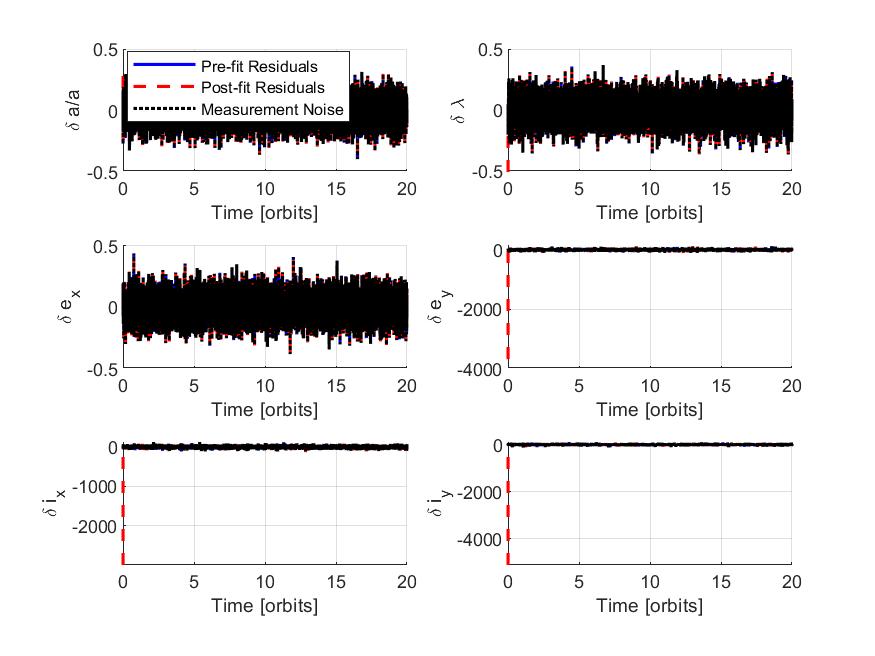
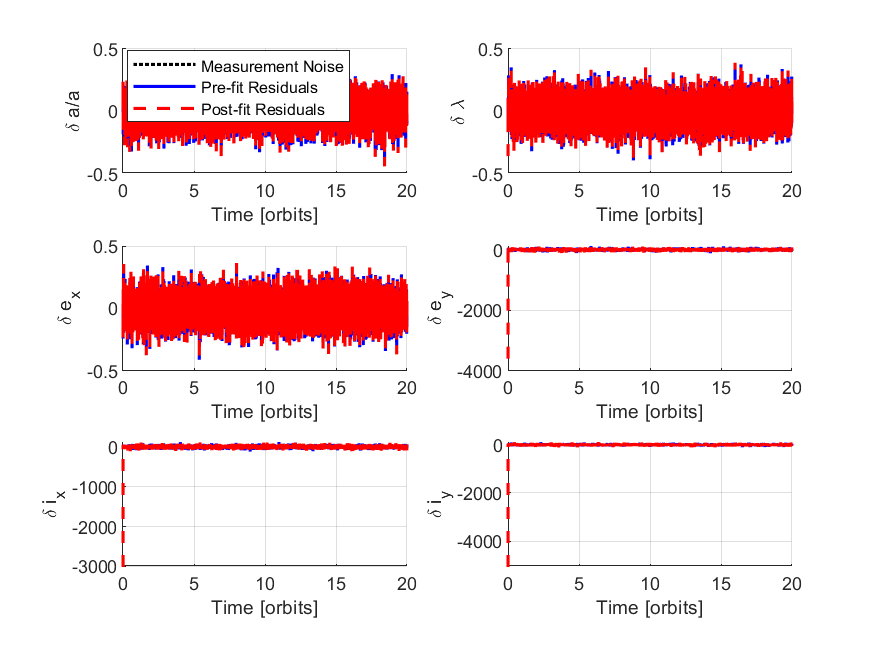
fixes

diff --git a/sim/EKF_continuous_no_control.m b/sim/EKF_continuous_no_control.m
@@ -1,5 +1,7 @@
-function EKF_continuous_no_control(SV1_OE_init, SV2_state_init, SV3_state_init, ...
-                                     SV1_state_init, t_orbit, t_series)
+function EKF_continuous_no_control(SV1_OE_init, SV2_ROE_init, SV3_ROE_init, SV2_state_init, SV3_state_init, ...
+                                     SV1_state_init,t_orbit, t_series)
+    % Inputs: mean OE, mean ROEs, times
+
     full_times = t_series(:);
     dt = full_times(2) - full_times(1);
     n_steps = length(full_times);
@@ -28,40 +30,94 @@ function EKF_continuous_no_control(SV1_OE_init, SV2_state_init, SV3_state_init, 
     noise_SV3_all = zeros(length(t_series), 6);
 
     % Setting initial states
-    SV1_state = SV1_state_init;
-    SV2_state = SV2_state_init;
-    SV3_state = SV3_state_init;
+    % SV1_state = SV1_state_init;
+    % SV2_state = SV2_state_init;
+    % SV3_state = SV3_state_init;
+
+
+    % Use ROEs to get initial OEs for SV2 and SV3
+    % Then use these OEs to get ECI positions
+
+    a_1_init = SV1_OE_init(1);
+    e_1_init = SV1_OE_init(2);
+    i_1_init = SV1_OE_init(3);
+    RAAN_1_init = SV1_OE_init(4);
+    w_1_init = SV1_OE_init(5);
+    M_1_init = SV1_OE_init(6);
+    nu_1_init = rad2deg(mean2true(deg2rad(M_1_init),e_1_init));
+
+
+    d_a_SV2_init = SV2_ROE_init(1);
+    d_lambda_SV2_init = SV2_ROE_init(2);
+    d_e_x_SV2_init = SV2_ROE_init(3);
+    d_e_y_SV2_init = SV2_ROE_init(4);
+    d_i_x_SV2_init = SV2_ROE_init(5);
+    d_i_y_SV2_init = SV2_ROE_init(6);
+
+    d_a_SV3_init = SV3_ROE_init(1);
+    d_lambda_SV3_init = SV3_ROE_init(2);
+    d_e_x_SV3_init = SV3_ROE_init(3);
+    d_e_y_SV3_init = SV3_ROE_init(4);
+    d_i_x_SV3_init = SV3_ROE_init(5);
+    d_i_y_SV3_init = SV3_ROE_init(6);
+
+    [a_2_init, e_2_init, i_2_init, RAAN_2_init, w_2_init, nu_2_init] = ROE2OE(a_1_init,e_1_init,i_1_init,RAAN_1_init,w_1_init,nu_1_init, ...
+    d_a_SV2_init,d_lambda_SV2_init,d_e_x_SV2_init,d_e_y_SV2_init,d_i_x_SV2_init,d_i_y_SV2_init);
+    [a_3_init, e_3_init, i_3_init, RAAN_3_init, w_3_init, nu_3_init] = ROE2OE(a_1_init,e_1_init,i_1_init,RAAN_1_init,w_1_init,nu_1_init, ...
+    d_a_SV3_init,d_lambda_SV3_init,d_e_x_SV3_init,d_e_y_SV3_init,d_i_x_SV3_init,d_i_y_SV3_init);
+
+    [r_ECI_SV1_init,v_ECI_SV1_init] = OE2ECI(a_1_init,e_1_init,i_1_init,RAAN_1_init,w_1_init,nu_1_init);
+    [r_ECI_SV2_init,v_ECI_SV2_init] = OE2ECI(a_2_init,e_2_init,i_2_init,RAAN_2_init,w_2_init,nu_2_init);
+    [r_ECI_SV3_init,v_ECI_SV3_init] = OE2ECI(a_3_init,e_3_init,i_3_init,RAAN_3_init,w_3_init,nu_3_init);
+
+    [a_qns_SV1, e_x_SV1, e_y_SV1, i_qns_SV1, RAAN_qns_SV1, u_SV1] = ...
+    OE2quasi_nonsing(a_1_init,e_1_init,i_1_init,RAAN_1_init,w_1_init,M_1_init);
+    SV1_OE_state = [a_qns_SV1, e_x_SV1, e_y_SV1, i_qns_SV1, RAAN_qns_SV1, u_SV1];
+
+    M_2_init = rad2deg(true2mean(deg2rad(nu_2_init),e_2_init));
+    [a_qns_SV2, e_x_SV2, e_y_SV2, i_qns_SV2, RAAN_qns_SV2, u_SV2] = ...
+    OE2quasi_nonsing(a_2_init,e_2_init,i_2_init,RAAN_2_init,w_2_init,M_2_init);
+    SV2_OE_state = [a_qns_SV2, e_x_SV2, e_y_SV2, i_qns_SV2, RAAN_qns_SV2, u_SV2]; % qns
+
+    M_3_init = rad2deg(true2mean(deg2rad(nu_3_init),e_3_init));
+    [a_qns_SV3, e_x_SV3, e_y_SV3, i_qns_SV3, RAAN_qns_SV3, u_SV3] = ...
+    OE2quasi_nonsing(a_3_init,e_3_init,i_3_init,RAAN_3_init,w_3_init,M_3_init);
+    SV3_OE_state = [a_qns_SV3, e_x_SV3, e_y_SV3, i_qns_SV3, RAAN_qns_SV3, u_SV3]; % qns
+    
+    SV1_state = [r_ECI_SV1_init', v_ECI_SV1_init']';
+    SV2_state = [r_ECI_SV2_init', v_ECI_SV2_init']';
+    SV3_state = [r_ECI_SV3_init', v_ECI_SV3_init']';
 
     state_SV3_all(1, :) = SV3_state';
     state_SV2_all(1, :) = SV2_state';
     state_SV1_all(1, :) = SV1_state';
     
     % Initial states for EKF
-    [a_init_SV1,e_init_SV1,i_init_SV1,RAAN_init_SV1,omega_init_SV1,nu_init_SV1] = ECI2OE(SV1_state_init(1:3), SV1_state_init(4:6));
-    M_init_SV1_rad = true2mean(deg2rad(nu_init_SV1),e_init_SV1);
-    M_init_SV1 = rad2deg(M_init_SV1_rad);
-    [a_qns_SV1, e_x_SV1, e_y_SV1, i_qns_SV1, RAAN_qns_SV1, u_SV1] = ...
-    OE2quasi_nonsing(a_init_SV1,e_init_SV1,i_init_SV1,RAAN_init_SV1,omega_init_SV1,M_init_SV1);
-    SV1_OE_state = [a_qns_SV1, e_x_SV1, e_y_SV1, i_qns_SV1, RAAN_qns_SV1, u_SV1];
-
-    [a_init_SV3,e_init_SV3,i_init_SV3,RAAN_init_SV3,omega_init_SV3,nu_init_SV3] = ECI2OE(SV3_state_init(1:3), SV3_state_init(4:6));
-    M_init_SV3_rad = true2mean(deg2rad(nu_init_SV3),e_init_SV3);
-    M_init_SV3 = rad2deg(M_init_SV3_rad);
-    [a_qns_SV3, e_x_SV3, e_y_SV3, i_qns_SV3, RAAN_qns_SV3, u_SV3] = ...
-    OE2quasi_nonsing(a_init_SV3,e_init_SV3,i_init_SV3,RAAN_init_SV3,omega_init_SV3,M_init_SV3);
-    SV3_OE_state = [a_qns_SV3, e_x_SV3, e_y_SV3, i_qns_SV3, RAAN_qns_SV3, u_SV3];
-    
-    [d_a_init_SV2, d_lambda_init_SV2, d_e_x_init_SV2, d_e_y_init_SV2, d_i_x_init_SV2, d_i_y_init_SV2] = ...
-        ECI2ROE_array(SV1_state_init(1:3)', SV1_state_init(4:6)', SV3_state_init(1:3)', SV3_state_init(4:6)');
-    SV2_ROE_state = [d_a_init_SV2, d_lambda_init_SV2, d_e_x_init_SV2, d_e_y_init_SV2, d_i_x_init_SV2, d_i_y_init_SV2]/a_chief; % unscaling by a_chief
-    
-    [a_qns_SV2, e_x_SV2, e_y_SV2, i_qns_SV2, RAAN_qns_SV2, u_SV2] = ...
-        ROE2quasi_nonsing(a_qns_SV1, e_x_SV1, e_y_SV1, i_qns_SV1, RAAN_qns_SV1, u_SV1,d_a_init_SV2, d_lambda_init_SV2, d_e_x_init_SV2, d_e_y_init_SV2, d_i_x_init_SV2, d_i_y_init_SV2);
-    SV2_OE_state = [a_qns_SV2, e_x_SV2, e_y_SV2, i_qns_SV2, RAAN_qns_SV2, u_SV2];
-
-    [d_a_init_SV3, d_lambda_init_SV3, d_e_x_init_SV3, d_e_y_init_SV3, d_i_x_init_SV3, d_i_y_init_SV3] = ...
-        ECI2ROE_array(SV1_state_init(1:3)', SV1_state_init(4:6)', SV3_state_init(1:3)', SV3_state_init(4:6)');
-    SV3_ROE_state = [d_a_init_SV3, d_lambda_init_SV3, d_e_x_init_SV3, d_e_y_init_SV3, d_i_x_init_SV3, d_i_y_init_SV3]/a_chief; % unscaling by a_chief
+    % [a_init_SV1,e_init_SV1,i_init_SV1,RAAN_init_SV1,omega_init_SV1,nu_init_SV1] = ECI2OE(SV1_state_init(1:3), SV1_state_init(4:6));
+    % M_init_SV1_rad = true2mean(deg2rad(nu_init_SV1),e_init_SV1);
+    % M_init_SV1 = rad2deg(M_init_SV1_rad);
+    % [a_qns_SV1, e_x_SV1, e_y_SV1, i_qns_SV1, RAAN_qns_SV1, u_SV1] = ...
+    % OE2quasi_nonsing(a_init_SV1,e_init_SV1,i_init_SV1,RAAN_init_SV1,omega_init_SV1,M_init_SV1);
+    % SV1_OE_state = [a_qns_SV1, e_x_SV1, e_y_SV1, i_qns_SV1, RAAN_qns_SV1, u_SV1];
+    % 
+    % [a_init_SV3,e_init_SV3,i_init_SV3,RAAN_init_SV3,omega_init_SV3,nu_init_SV3] = ECI2OE(SV3_state_init(1:3), SV3_state_init(4:6));
+    % M_init_SV3_rad = true2mean(deg2rad(nu_init_SV3),e_init_SV3);
+    % M_init_SV3 = rad2deg(M_init_SV3_rad);
+    % [a_qns_SV3, e_x_SV3, e_y_SV3, i_qns_SV3, RAAN_qns_SV3, u_SV3] = ...
+    % OE2quasi_nonsing(a_init_SV3,e_init_SV3,i_init_SV3,RAAN_init_SV3,omega_init_SV3,M_init_SV3);
+    % SV3_OE_state = [a_qns_SV3, e_x_SV3, e_y_SV3, i_qns_SV3, RAAN_qns_SV3, u_SV3];
+    % 
+    % [d_a_init_SV2, d_lambda_init_SV2, d_e_x_init_SV2, d_e_y_init_SV2, d_i_x_init_SV2, d_i_y_init_SV2] = ...
+    %     ECI2ROE_array(SV1_state_init(1:3)', SV1_state_init(4:6)', SV3_state_init(1:3)', SV3_state_init(4:6)');
+    % SV2_ROE_state = [d_a_init_SV2, d_lambda_init_SV2, d_e_x_init_SV2, d_e_y_init_SV2, d_i_x_init_SV2, d_i_y_init_SV2]/a_chief; % unscaling by a_chief
+    % 
+    % [a_qns_SV2, e_x_SV2, e_y_SV2, i_qns_SV2, RAAN_qns_SV2, u_SV2] = ...
+    %     ROE2quasi_nonsing(a_qns_SV1, e_x_SV1, e_y_SV1, i_qns_SV1, RAAN_qns_SV1, u_SV1,d_a_init_SV2, d_lambda_init_SV2, d_e_x_init_SV2, d_e_y_init_SV2, d_i_x_init_SV2, d_i_y_init_SV2);
+    % SV2_OE_state = [a_qns_SV2, e_x_SV2, e_y_SV2, i_qns_SV2, RAAN_qns_SV2, u_SV2];
+    % 
+    % [d_a_init_SV3, d_lambda_init_SV3, d_e_x_init_SV3, d_e_y_init_SV3, d_i_x_init_SV3, d_i_y_init_SV3] = ...
+    %     ECI2ROE_array(SV1_state_init(1:3)', SV1_state_init(4:6)', SV3_state_init(1:3)', SV3_state_init(4:6)');
+    % SV3_ROE_state = [d_a_init_SV3, d_lambda_init_SV3, d_e_x_init_SV3, d_e_y_init_SV3, d_i_x_init_SV3, d_i_y_init_SV3]/a_chief; % unscaling by a_chief
     
     % [a_qns_SV3, e_x_SV3, e_y_SV3, i_qns_SV3, RAAN_qns_SV3, u_SV3] = ...
     %     ROE2quasi_nonsing(a_qns_SV1, e_x_SV1, e_y_SV1, i_qns_SV1, RAAN_qns_SV1, u_SV1,d_a_init_SV3, d_lambda_init_SV3, d_e_x_init_SV3, d_e_y_init_SV3, d_i_x_init_SV3, d_i_y_init_SV3);
@@ -72,9 +128,9 @@ function EKF_continuous_no_control(SV1_OE_init, SV2_state_init, SV3_state_init, 
     estimate_sigma = 0.1*eye(6);
     %estimate_sigma(2,2) = 1e2; 
     estimate_noise = sqrtm(estimate_sigma)*randn(6,1);
-    x_EKF_SV3_all(1,:) = SV3_ROE_state*a_chief; % + estimate_noise';
+    x_EKF_SV3_all(1,:) = SV3_ROE_init; % + estimate_noise';
     P_EKF_SV3_all(1,:,:) = estimate_sigma;
-    x_EKF_SV2_all(1,:) = SV2_ROE_state*a_chief; % + estimate_noise';
+    x_EKF_SV2_all(1,:) = SV2_ROE_init; % + estimate_noise';
     P_EKF_SV2_all(1,:,:) = estimate_sigma;
 
     x_update_EKF_SV2 = x_EKF_SV2_all(1,:)';
@@ -115,7 +171,7 @@ function EKF_continuous_no_control(SV1_OE_init, SV2_state_init, SV3_state_init, 
     %Q(6,6) = 1e1;
 
     % R assumes there is less noise than there actually is.
-    R = 0.001*blkdiag(RTN_sigma, ECI_sigma); % diagonal matrix with elements equal to the varianace of each measurement
+    R = blkdiag(RTN_sigma, ECI_sigma); % diagonal matrix with elements equal to the varianace of each measurement
 
     for i=2:n_steps
         t = full_times(i-1);

diff --git a/sim/initialize_roe_and_modes.m b/sim/initialize_roe_and_modes.m
@@ -20,7 +20,7 @@ a_chief_meters = a_SV1_init*1e3;
 num_orbits_modes = [0,0,0,0];
 num_orbits_station_keep = [20,0,0,0];
 
-SV2_ROE = SV2_modes(1, :);
+SV2_ROE = SV2_modes(1, :); % Mode 1
 SV3_ROE = SV3_modes(1, :);
 
 % Initial absolute ECI states of deputies
@@ -32,15 +32,15 @@ SV3_ROE(1), SV3_ROE(2), SV3_ROE(3), SV3_ROE(4), SV3_ROE(5), SV3_ROE(6));
 state_abs_SV2_init = [r_SV2_init; v_SV2_init];
 state_abs_SV3_init = [r_SV3_init; v_SV3_init];
 
-J2_flag = true;
-
-[d_a_SV3_osc, d_lambda_SV3_osc, d_e_x_SV3_osc, d_e_y_SV3_osc, d_i_x_SV3_osc, d_i_y_SV3_osc, ...
-         d_a_SV3_mean, d_lambda_SV3_mean, d_e_x_SV3_mean, d_e_y_SV3_mean, d_i_x_SV3_mean, d_i_y_SV3_mean, ...
-         a_osc, e_x_osc, e_y_osc, i_osc, RAAN_osc, u_osc, ...
-         a_mean, e_x_mean, e_y_mean, i_mean, RAAN_mean, u_mean] = ...
-            compute_OE_ROE_mean_osc(r_SV1_ECI_init', v_SV1_ECI_init', r_SV3_init', v_SV3_init', J2_flag);
-
-[r_SV3_mean_init, v_SV3_mean_init] = ROE2ECI(a_SV1_init, ex_SV1_init, ey_SV1_init, i_SV1_init, RAAN_SV1_init, u_SV1_init,...
-d_a_SV3_mean, d_lambda_SV3_mean, d_e_x_SV3_mean, d_e_y_SV3_mean, d_i_x_SV3_mean, d_i_y_SV3_mean);
-
-state_abs_SV3_mean_init = [r_SV3_mean_init; v_SV3_mean_init];
+% J2_flag = true;
+% 
+% [d_a_SV3_osc, d_lambda_SV3_osc, d_e_x_SV3_osc, d_e_y_SV3_osc, d_i_x_SV3_osc, d_i_y_SV3_osc, ...
+%          d_a_SV3_mean, d_lambda_SV3_mean, d_e_x_SV3_mean, d_e_y_SV3_mean, d_i_x_SV3_mean, d_i_y_SV3_mean, ...
+%          a_osc, e_x_osc, e_y_osc, i_osc, RAAN_osc, u_osc, ...
+%          a_mean, e_x_mean, e_y_mean, i_mean, RAAN_mean, u_mean] = ...
+%             compute_OE_ROE_mean_osc(r_SV1_ECI_init', v_SV1_ECI_init', r_SV3_init', v_SV3_init', J2_flag);
+% 
+% [r_SV3_mean_init, v_SV3_mean_init] = ROE2ECI(a_SV1_init, ex_SV1_init, ey_SV1_init, i_SV1_init, RAAN_SV1_init, u_SV1_init,...
+% d_a_SV3_mean, d_lambda_SV3_mean, d_e_x_SV3_mean, d_e_y_SV3_mean, d_i_x_SV3_mean, d_i_y_SV3_mean);
+% 
+% state_abs_SV3_mean_init = [r_SV3_mean_init; v_SV3_mean_init];

diff --git a/sim/ps8_sims.m b/sim/ps8_sims.m
@@ -6,4 +6,5 @@
 initialize_roe_and_modes;
 
 % using SV3 mean abs state init
-EKF_continuous_no_control(SV1_OE_init, state_abs_SV2_init, state_abs_SV3_init , state_init, t_orbit, t_series);
+EKF_continuous_no_control(SV1_OE_init,SV2_ROE, SV3_ROE,state_abs_SV2_init, state_abs_SV3_init , state_init,...
+     t_orbit, t_series);
